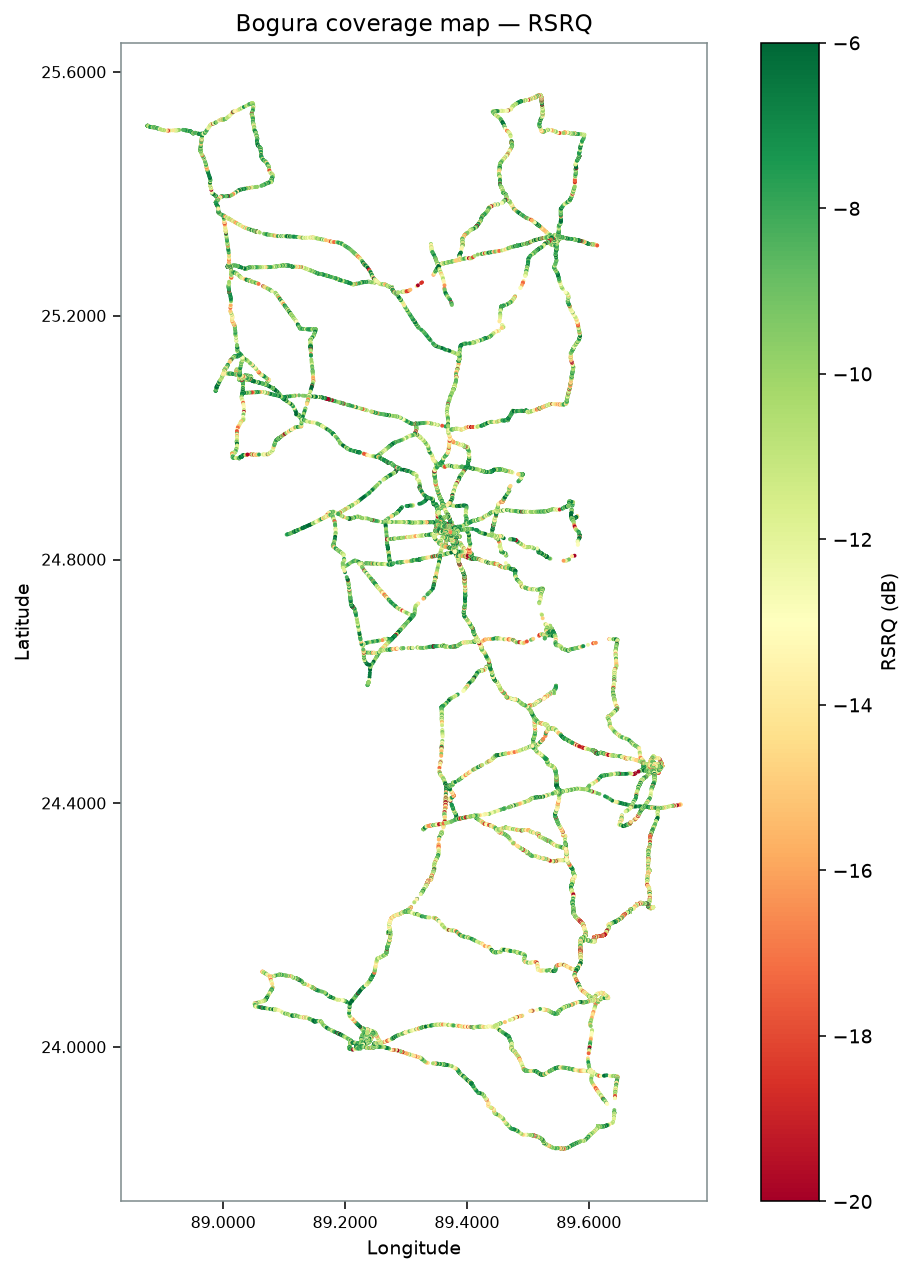
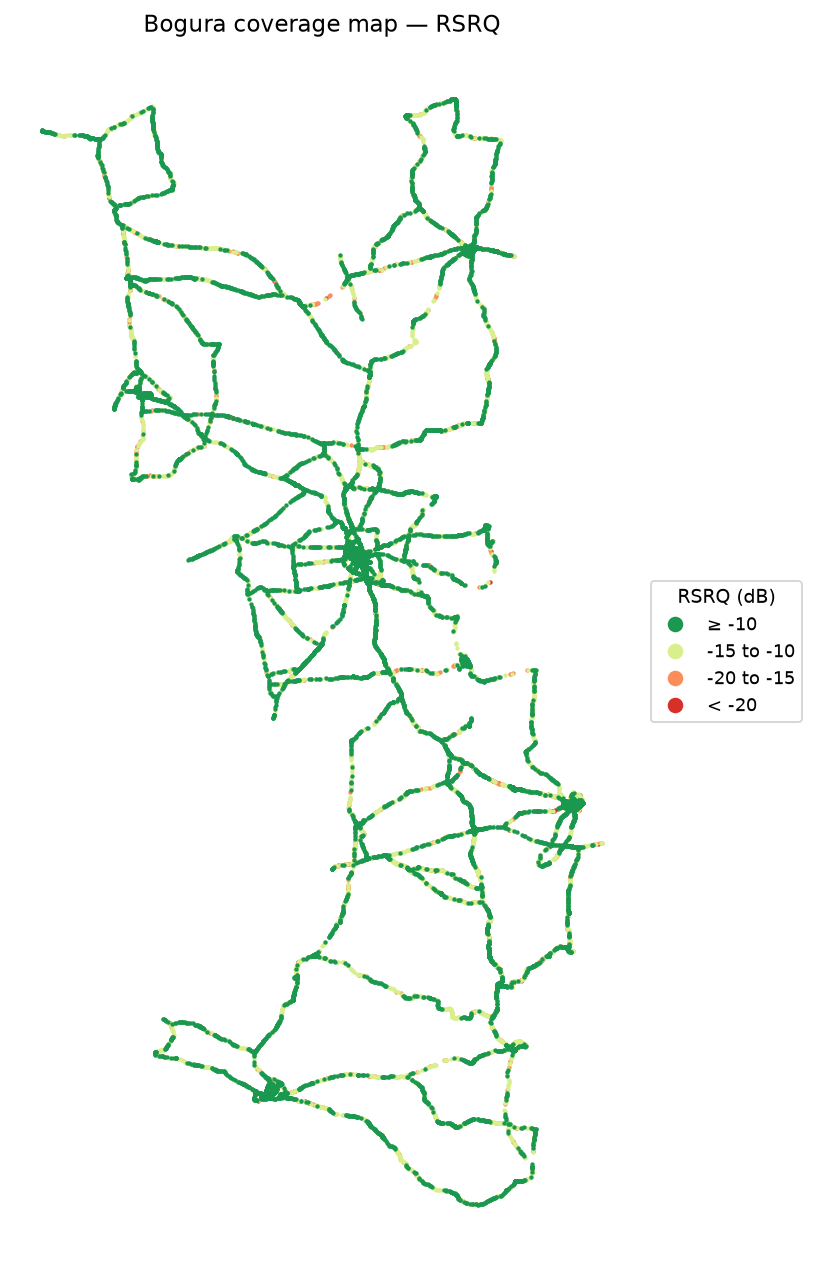
Match RSRQ and SINR map legends to the RSRP range legend
Keep the RSRP coverage map as a discrete side legend without a colorbar,
and restyle RSRQ/SINR maps the same way so KPI sheets no longer use a
vertical color scale.

diff --git a/merge_and_analyze.py b/merge_and_analyze.py
@@ -12,7 +12,6 @@ import matplotlib
 matplotlib.use("Agg")
 import matplotlib.pyplot as plt
 from matplotlib.lines import Line2D
-from matplotlib.ticker import FormatStrFormatter, MaxNLocator
 import numpy as np
 import pandas as pd
 
@@ -105,6 +104,33 @@ MAP_RSRP_COLORS = [
     "#67001f",
 ]
 
+# RSRQ / SINR coverage maps use the same discrete legend style as RSRP
+# (better values at the top, no vertical colorbar).
+MAP_RSRQ_LABELS = [
+    "≥ -10",
+    "-15 to -10",
+    "-20 to -15",
+    "< -20",
+]
+MAP_RSRQ_COLORS = [
+    "#1a9850",
+    "#d9ef8b",
+    "#fc8d59",
+    "#d73027",
+]
+MAP_SINR_LABELS = [
+    "≥ 20",
+    "13 to 20",
+    "0 to 13",
+    "< 0",
+]
+MAP_SINR_COLORS = [
+    "#1a9850",
+    "#2A9D8F",
+    "#E9C46A",
+    "#9B2226",
+]
+
 
 def rsrp_range_counts(series: pd.Series) -> pd.Series:
     binned = pd.cut(
@@ -134,47 +160,66 @@ def rsrp_map_class(series: pd.Series) -> pd.Series:
     return pd.Series(classified, index=v.index).where(v.notna(), other=pd.NA)
 
 
-def style_geo_axes(ax) -> None:
-    """Longitude on X and Latitude on Y, with visible tick levels."""
-    ax.set_xlabel("Longitude")
-    ax.set_ylabel("Latitude")
-    ax.tick_params(
-        axis="both",
-        which="major",
-        labelsize=8,
-        labelbottom=True,
-        labelleft=True,
-        length=4,
-        direction="out",
+def rsrq_map_class(series: pd.Series) -> pd.Series:
+    v = pd.to_numeric(series, errors="coerce")
+    classified = np.select(
+        [v >= -10, v >= -15, v >= -20],
+        MAP_RSRQ_LABELS[:-1],
+        default="< -20",
     )
-    ax.xaxis.set_major_locator(MaxNLocator(nbins=6))
-    ax.yaxis.set_major_locator(MaxNLocator(nbins=6))
-    ax.xaxis.set_major_formatter(FormatStrFormatter("%.4f"))
-    ax.yaxis.set_major_formatter(FormatStrFormatter("%.4f"))
+    return pd.Series(classified, index=v.index).where(v.notna(), other=pd.NA)
+
+
+def sinr_map_class(series: pd.Series) -> pd.Series:
+    v = pd.to_numeric(series, errors="coerce")
+    classified = np.select(
+        [v >= 20, v >= 13, v >= 0],
+        MAP_SINR_LABELS[:-1],
+        default="< 0",
+    )
+    return pd.Series(classified, index=v.index).where(v.notna(), other=pd.NA)
+
+
+def hide_map_axes(ax) -> None:
+    """Bare coverage map: no lon/lat ticks, matching the RSRP snapshot style."""
+    ax.set_xticks([])
+    ax.set_yticks([])
+    ax.set_xlabel("")
+    ax.set_ylabel("")
+    ax.tick_params(labelbottom=False, labelleft=False, length=0)
     for spine in ax.spines.values():
-        spine.set_visible(True)
-        spine.set_color("#7F8C8D")
+        spine.set_visible(False)
 
 
-def plot_rsrp_coverage_map(df: pd.DataFrame, path: Path, max_points: int = 25000) -> Path:
-    """Discrete RSRP coverage map with Longitude / Latitude axis levels."""
+def plot_discrete_coverage_map(
+    df: pd.DataFrame,
+    path: Path,
+    column: str,
+    class_series: pd.Series,
+    labels: list[str],
+    colors: list[str],
+    title: str,
+    legend_title: str,
+    max_points: int = 25000,
+) -> Path:
+    """Drive route colored by discrete KPI ranges, with an RSRP-style side legend."""
     PLOTS_DIR.mkdir(parents=True, exist_ok=True)
-    geo = df.dropna(subset=["Longitude", "Latitude", "RSRP"]).copy()
+    geo = df.dropna(subset=["Longitude", "Latitude", column]).copy()
     sample = downsample(geo, max_points=max_points)
-    sample["rsrp_class"] = rsrp_map_class(sample["RSRP"])
+    classes = class_series.reindex(sample.index)
     fig, ax = plt.subplots(figsize=(8.0, 9.2))
-    for label, color in zip(reversed(MAP_RSRP_LABELS), reversed(MAP_RSRP_COLORS)):
-        part = sample[sample["rsrp_class"] == label]
+    for label, color in zip(reversed(labels), reversed(colors)):
+        part = sample[classes == label]
         if part.empty:
             continue
         ax.scatter(part["Longitude"], part["Latitude"], s=5, c=color, linewidths=0, rasterized=True)
     handles = [
         Line2D([0], [0], marker="o", color="none", markerfacecolor=c, markeredgecolor="none", markersize=8, label=lab)
-        for lab, c in zip(MAP_RSRP_LABELS, MAP_RSRP_COLORS)
+        for lab, c in zip(labels, colors)
     ]
     ax.legend(
         handles=handles,
-        title="RSRP (dBm)",
+        title=legend_title,
         loc="center left",
         bbox_to_anchor=(1.02, 0.5),
         frameon=True,
@@ -182,12 +227,55 @@ def plot_rsrp_coverage_map(df: pd.DataFrame, path: Path, max_points: int = 25000
         title_fontsize=10,
     )
     ax.set_aspect("equal", adjustable="box")
-    ax.set_title("Bogura coverage map — RSRP")
-    style_geo_axes(ax)
+    ax.set_title(title)
+    hide_map_axes(ax)
     fig.tight_layout()
     fig.savefig(path, dpi=140, facecolor="white", bbox_inches="tight")
     plt.close(fig)
     return path
+
+
+def plot_rsrp_coverage_map(df: pd.DataFrame, path: Path, max_points: int = 25000) -> Path:
+    """Discrete RSRP coverage map with a range legend (no lon/lat chrome)."""
+    return plot_discrete_coverage_map(
+        df,
+        path,
+        column="RSRP",
+        class_series=rsrp_map_class(df["RSRP"]),
+        labels=MAP_RSRP_LABELS,
+        colors=MAP_RSRP_COLORS,
+        title="Bogura coverage map — RSRP",
+        legend_title="RSRP (dBm)",
+        max_points=max_points,
+    )
+
+
+def plot_rsrq_coverage_map(df: pd.DataFrame, path: Path, max_points: int = 25000) -> Path:
+    return plot_discrete_coverage_map(
+        df,
+        path,
+        column="RSRQ",
+        class_series=rsrq_map_class(df["RSRQ"]),
+        labels=MAP_RSRQ_LABELS,
+        colors=MAP_RSRQ_COLORS,
+        title="Bogura coverage map — RSRQ",
+        legend_title="RSRQ (dB)",
+        max_points=max_points,
+    )
+
+
+def plot_sinr_coverage_map(df: pd.DataFrame, path: Path, max_points: int = 25000) -> Path:
+    return plot_discrete_coverage_map(
+        df,
+        path,
+        column="SINR",
+        class_series=sinr_map_class(df["SINR"]),
+        labels=MAP_SINR_LABELS,
+        colors=MAP_SINR_COLORS,
+        title="Bogura coverage map — SINR",
+        legend_title="SINR (dB)",
+        max_points=max_points,
+    )
 
 
 def require_unrar() -> str:

diff --git a/generate_excel_report.py b/generate_excel_report.py
@@ -40,12 +40,13 @@ from merge_and_analyze import (
     downsample,
     earfcn_to_band,
     plot_rsrp_coverage_map,
+    plot_rsrq_coverage_map,
+    plot_sinr_coverage_map,
     rsrp_map_class,
     rsrp_range_counts,
-    style_geo_axes,
 )
 
-REPORT_VERSION = "1.4"
+REPORT_VERSION = "1.5"
 REPORT_XLSX = OUTPUT_DIR / "Bogura_DriveTest_Report.xlsx"
 VERSIONED_XLSX = OUTPUT_DIR / f"Bogura_DriveTest_Report_v{REPORT_VERSION}.xlsx"
 
@@ -139,32 +140,6 @@ def kpi_stats(series: pd.Series) -> dict[str, float]:
 def quality_counts(series: pd.Series, bins, labels) -> pd.Series:
     binned = pd.cut(pd.to_numeric(series, errors="coerce"), bins=bins, labels=labels, right=False)
     return binned.value_counts(dropna=False).reindex(labels, fill_value=0)
-
-
-def save_route_plot(df: pd.DataFrame, column: str, path: Path, vmin: float, vmax: float, cmap: str, unit: str) -> Path:
-    PLOTS_DIR.mkdir(parents=True, exist_ok=True)
-    geo = df.dropna(subset=["Longitude", "Latitude", column])
-    sample = downsample(geo, max_points=25000)
-    fig, ax = plt.subplots(figsize=(8.0, 9.2))
-    sc = ax.scatter(
-        sample["Longitude"],
-        sample["Latitude"],
-        c=sample[column],
-        s=4,
-        cmap=cmap,
-        vmin=vmin,
-        vmax=vmax,
-        linewidths=0,
-    )
-    fig.colorbar(sc, ax=ax, label=f"{column} ({unit})")
-    ax.set_title(f"Bogura coverage map — {column}")
-    ax.set_aspect("equal", adjustable="box")
-    ax.grid(False)
-    style_geo_axes(ax)
-    fig.tight_layout()
-    fig.savefig(path, dpi=140, facecolor="white", bbox_inches="tight")
-    plt.close(fig)
-    return path
 
 
 def add_image(ws: Worksheet, path: Path, anchor: str, width: int, height: int) -> None:
@@ -526,7 +501,7 @@ def build_cover(ws: Worksheet, df: pd.DataFrame) -> None:
     write_cell(ws, 15, 1, "How to read this workbook", size=14, bold=True)
     notes = [
         "Cover — dataset size, KPI scorecard, band mix, and overview histograms.",
-        "RSRP / RSRQ / SINR — statistics table and coverage map (Longitude / Latitude levels on both axes).",
+        "RSRP / RSRQ / SINR — statistics table and coverage map (discrete range legend).",
         "RSRP vs KPIs — RSRP levels on the horizontal axis, SINR/RSRQ levels on the vertical axis.",
         "Sample Log — evenly spaced subset of the merged samples (full 1.07M rows stay in output/Bogura_merged.csv.gz).",
         "P1 is the split archive (part1–part5). P2 is the standalone archive. This report uses the concatenated final file.",
@@ -943,8 +918,8 @@ def build_report(df: pd.DataFrame, out_path: Path = REPORT_XLSX) -> Path:
         df["Band"] = df["DL EARFCN"].map(earfcn_to_band)
 
     rsrp_map = plot_rsrp_coverage_map(df, PLOTS_DIR / "excel_route_rsrp.png")
-    rsrq_map = save_route_plot(df, "RSRQ", PLOTS_DIR / "excel_route_rsrq.png", -20, -6, "RdYlGn", "dB")
-    sinr_map = save_route_plot(df, "SINR", PLOTS_DIR / "excel_route_sinr.png", -5, 25, "RdYlGn", "dB")
+    rsrq_map = plot_rsrq_coverage_map(df, PLOTS_DIR / "excel_route_rsrq.png")
+    sinr_map = plot_sinr_coverage_map(df, PLOTS_DIR / "excel_route_sinr.png")
     scatter_sinr = save_rsrp_scatter(df, "SINR", PLOTS_DIR / "excel_scatter_rsrp_sinr.png", "SINR (dB)", "RSRP vs SINR", ylim=(-10, 32))
     scatter_rsrq = save_rsrp_scatter(df, "RSRQ", PLOTS_DIR / "excel_scatter_rsrp_rsrq.png", "RSRQ (dB)", "RSRP vs RSRQ", ylim=(-24, 0))
     save_binned_vs_preview(df, PLOTS_DIR / "excel_rsrp_vs_sinr_lines.png")

diff --git a/README.md b/README.md
@@ -80,24 +80,24 @@ python merge_and_analyze.py --from-merged
 
 RSRP ranges used in the report (dBm): **≥ -85**, **-85 to -95**, **-95 to -105**, **-105 to -110**, **-110 to -115**, **-115 to -120**, **-120 to -125**, **<-125**.
 
-## Download Excel report (v1.4)
+## Download Excel report (v1.5)
 
-**v1.4 (current):** https://github.com/miles4482/Drive-test-Log-Analysis-and-Plot/raw/cursor/merge-bogura-drive-test-logs-7dfb/output/Bogura_DriveTest_Report_v1.4.xlsx
+**v1.5 (current):** https://github.com/miles4482/Drive-test-Log-Analysis-and-Plot/raw/cursor/merge-bogura-drive-test-logs-7dfb/output/Bogura_DriveTest_Report_v1.5.xlsx
 
 Latest copy: https://github.com/miles4482/Drive-test-Log-Analysis-and-Plot/raw/cursor/merge-bogura-drive-test-logs-7dfb/output/Bogura_DriveTest_Report.xlsx
 
-GitHub file page: https://github.com/miles4482/Drive-test-Log-Analysis-and-Plot/blob/cursor/merge-bogura-drive-test-logs-7dfb/output/Bogura_DriveTest_Report_v1.4.xlsx
+GitHub file page: https://github.com/miles4482/Drive-test-Log-Analysis-and-Plot/blob/cursor/merge-bogura-drive-test-logs-7dfb/output/Bogura_DriveTest_Report_v1.5.xlsx
 
 ## Excel report
 
-`output/Bogura_DriveTest_Report_v1.4.xlsx` (also saved as `output/Bogura_DriveTest_Report.xlsx`)
+`output/Bogura_DriveTest_Report_v1.5.xlsx` (also saved as `output/Bogura_DriveTest_Report.xlsx`)
 
-Cover sheet shows **Version 1.4** and the generated timestamp. Bump `REPORT_VERSION` in `generate_excel_report.py` when the file is updated again.
+Cover sheet shows **Version 1.5** and the generated timestamp. Bump `REPORT_VERSION` in `generate_excel_report.py` when the file is updated again.
 
 | Sheet | Contents |
 | --- | --- |
 | Cover | Dataset size, KPI scorecard, RSRP ranges, band mix, RSRP/RSRQ/SINR histograms with axis titles and tick levels |
-| RSRP / RSRQ / SINR | Statistics table and coverage map (Longitude on X, Latitude on Y) |
+| RSRP / RSRQ / SINR | Statistics table and coverage map with a discrete range legend (same style on all three KPI sheets) |
 | RSRP vs KPIs | RSRP levels on the horizontal axis vs SINR/RSRQ on the vertical axis (P1/P2 binned means, combined dual-axis, scatter + trend) |
 | Sample Log | Evenly spaced subset of the merged samples |
 
